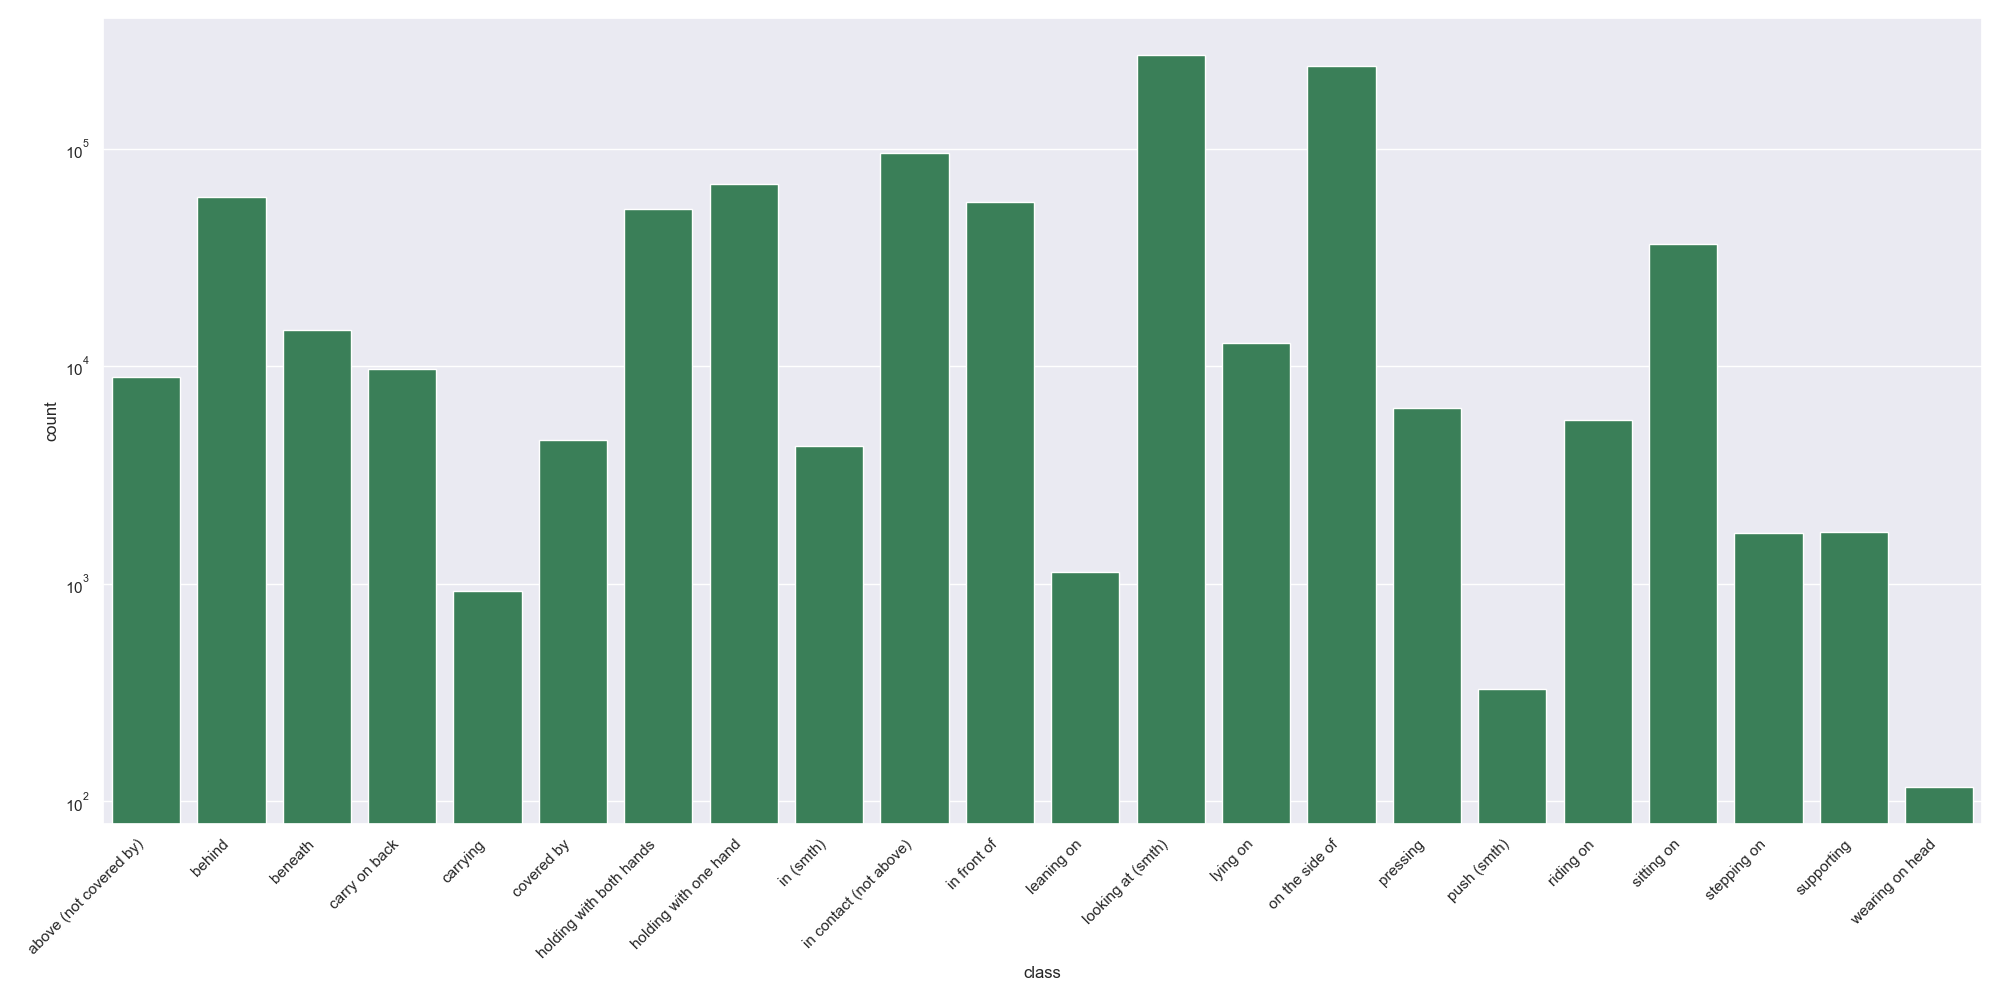
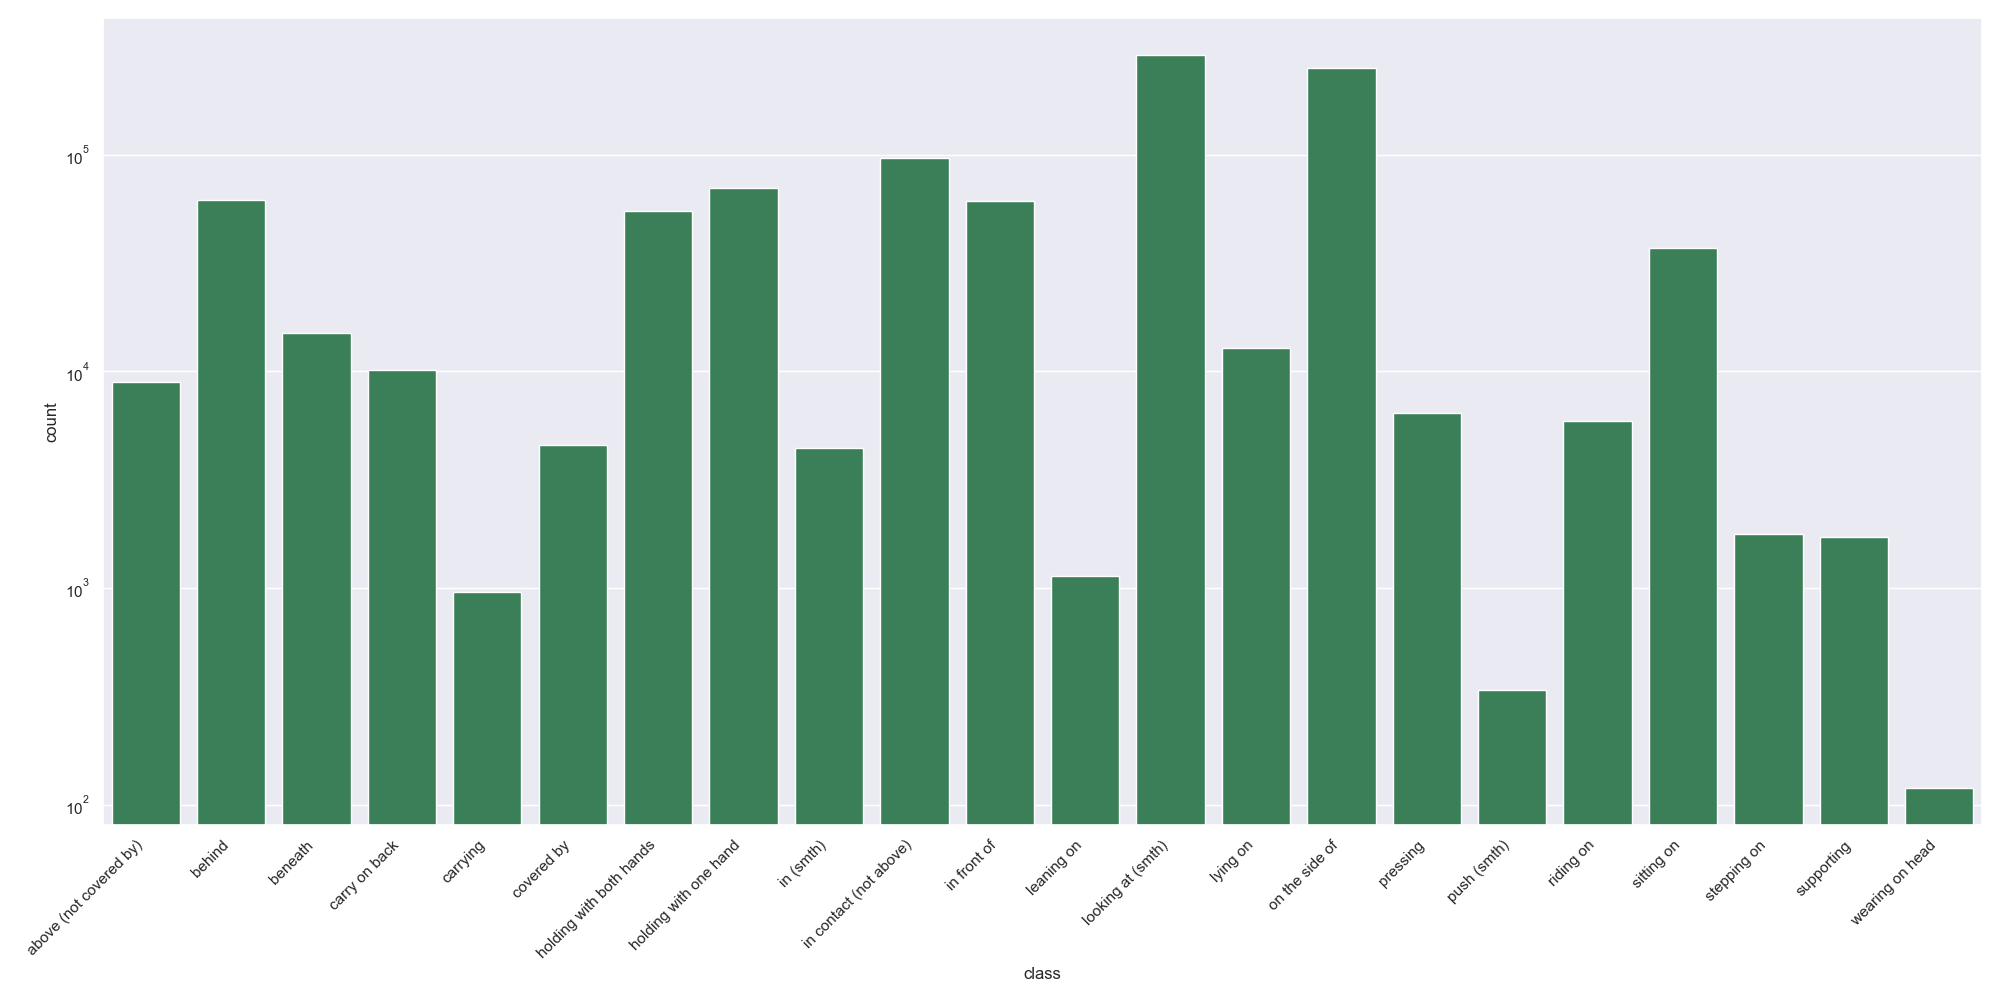
Updated 02/09 annotations

diff --git a/moma_preproc/ann_phase2.py b/moma_preproc/ann_phase2.py
@@ -133,8 +133,6 @@ class AnnPhase2:
     return timestamp
 
   def __inspect_ann_sact(self, ann_sact_raw):
-    errors = []
-
     # get id_sact, ids_hoi, and num_hois
     record = ann_sact_raw[0]['task']['task_params']['record']
     id_sact_real = record['attachment'].split('_')[-1][:-4].split('/')[0]
@@ -191,27 +189,11 @@ class AnnPhase2:
 
     for anns_instance_actor in anns_instances_actor:
       cnames = [ann_instance_actor.cname for ann_instance_actor in anns_instance_actor]
-      if len(set(cnames)) != 1:
-        # errors.append(f'[actor instance] id {anns_instance_actor[0].id} '
-        #               f'corresponds to more than one cname {set(cnames)}')
-        # fixme: Chinese
-        cnames = [self.en2cn[cname] for cname in cnames]
-        errors.append(f'人物;{list(set(cnames))};-;'
-                      f'本视频中{list(set(cnames))}两种不同人物类型用了相同的描述[{anns_instance_actor[0].id}]')
-        pass
+      assert len(set(cnames)) == 1
 
     for anns_instance_object in anns_instances_object:
       cnames = [ann_instance_object.cname for ann_instance_object in anns_instance_object]
-      if len(set(cnames)) != 1:
-        # errors.append(f'[object instance] id {anns_instance_object[0].id} '
-        #               f'corresponds to more than one cname {set(cnames)}')
-        # fixme: Chinese
-        cnames = [self.en2cn[cname] for cname in cnames]
-        errors.append(f'物体;{list(set(cnames))};-;'
-                      f'本视频中{list(set(cnames))}两种不同物体类型用了相同的描述[{anns_instance_object[0].id}]')
-        pass
-
-    return errors
+      assert len(set(cnames)) == 1
 
   def __inspect_ann_hoi(self, ann_hoi_raw):
     errors = []
@@ -240,12 +222,7 @@ class AnnPhase2:
             f'[{kind}] wrong id format {ann_entity.id}'.encode('unicode_escape').decode('utf-8')
 
         # check bbox
-        if ann_entity.bbox.width <= 0 or ann_entity.bbox.height <= 0:
-          # errors.append(f'[{kind}] wrong bbox size {ann_entity.bbox}')
-          # fixme: Chinese
-          errors.append(f'人物/物体词对象检测;{self.en2cn[ann_entity.cname]} {ann_entity.id}: '
-                        f'W={ann_entity.bbox.width}, H={ann_entity.bbox.height};-;对象检测标注面积为0')
-          pass
+        assert ann_entity.bbox.width > 0 and ann_entity.bbox.height > 0
 
         if ann_entity.bbox.x < 0 or \
            ann_entity.bbox.y < 0 or \
@@ -291,11 +268,7 @@ class AnnPhase2:
 
           ids_src = ann_description.ids_associated[1:-1].split('),(')[0].split(',')
           ids_trg = ann_description.ids_associated[1:-1].split('),(')[1].split(',')
-          if not are_entities(ids_src+ids_trg):
-            # errors.append(f'[{kind}] wrong ids_associated format {ids_src} -> {ids_trg}')
-            # fixme: Chinese
-            errors.append(f'关系词;{self.en2cn[ann_description.cname]};{ann_description.ids_associated};关系词描述格式错误')
-            pass
+          assert are_entities(ids_src+ids_trg)
 
           if not set(ids_src+ids_trg).issubset(ids):
             # errors.append(f'[{kind}] unseen ids_associated {set(ids_src+ids_trg)} in {ids}')
@@ -343,11 +316,9 @@ class AnnPhase2:
   def inspect(self, verbose=True):
     errors = []
     for id_sact, ann_sact_raw in self.anns_sact_raw.items():
-      errors_sact = self.__inspect_ann_sact(ann_sact_raw)
-      if verbose and len(errors_sact) > 0:
-        for error_sact in errors_sact:
-          print(f'{id_sact};;{error_sact}')
+      self.__inspect_ann_sact(ann_sact_raw)
 
+      errors_sact = []
       for ann_hoi_raw in ann_sact_raw:
         id_hoi = self.get_id_hoi(ann_hoi_raw)
         errors_hoi = self.__inspect_ann_hoi(ann_hoi_raw)

diff --git a/preproc.py b/preproc.py
@@ -43,7 +43,7 @@ def generate_splits(dir_moma):
 def main():
   dir_moma = '/home/alan/ssd/moma'
   fname_ann_phase1 = 'video_anns_phase1_processed.json'
-  fname_ann_phase2 = 'MOMA-videos-0131-all.jsonl'
+  fname_ann_phase2 = 'MOMA-videos-0209-all.jsonl'
 
   proc_anns(dir_moma, fname_ann_phase1, fname_ann_phase2)
   proc_videos(dir_moma)

diff --git a/README.md b/README.md
@@ -4,7 +4,7 @@ MOMA is a dataset dedicated to multi-object, multi-actor activity recognition.
 
 ## Requirements
 
-- Python 3.9+
+- Python 3.9+.
 - ffmpeg: For data processing.
 - Torchvision 0.11.0+: For data loading and visualization.
 - [distinctipy](https://github.com/alan-turing-institute/distinctipy): For data visualization. Install by running `pip install distinctipy`.
@@ -53,14 +53,14 @@ $ tree dir_moma
 ## Annotations
 In this version, we include:
 - 1,412 **activity** instances from [20 activity classes](https://raw.githubusercontent.com/d1ngn1gefe1/momatools/main/figures/activity.png?token=GHSAT0AAAAAABQHYNY25PBBGA4AIBT52DAAYPUG5AQ).
-- 15,616 **sub-activity** instances from [97 sub-activity classes](https://raw.githubusercontent.com/d1ngn1gefe1/momatools/main/figures/sub_activity.png?token=GHSAT0AAAAAABQHYNY2CEGAIBK5KOSZLLPWYPUG6EQ).
-- 158,530 **higher-order interaction** instances.
-- 599,843 image **actor** instances and 98,325 video **actor** instances from [27 classes](https://raw.githubusercontent.com/d1ngn1gefe1/momatools/main/figures/actor.png?token=GHSAT0AAAAAABQHYNY3YODQHWF6ZEIKXHVGYPUG6WQ).
-- 338,990 image **object** instances and 46,034 video **object** instances from [269 classes](https://raw.githubusercontent.com/d1ngn1gefe1/momatools/main/figures/object.png?token=GHSAT0AAAAAABQHYNY2S2BOY2KXIIHDBSPIYPUG6YA).
-- 951,543 **relationship** instances from [22 classes](https://raw.githubusercontent.com/d1ngn1gefe1/momatools/main/figures/relationship.png?token=GHSAT0AAAAAABQHYNY3YR77CAOVI5JQBNZCYPUG7MA).
-- 251,779 **attribute** instances from [4 classes](https://raw.githubusercontent.com/d1ngn1gefe1/momatools/main/figures/attribute.png?token=GHSAT0AAAAAABQHYNY2KBQJLZ5BPJH7EKIKYPUG7PQ).
-- 38,666 **transitive action** instances from [39 classes](https://raw.githubusercontent.com/d1ngn1gefe1/momatools/main/figures/transitive_action.png?token=GHSAT0AAAAAABQHYNY3VTPGYBKO52XBPEUUYPUG7WQ).
-- 412,914 **intransitive action** instances from [11 classes](https://raw.githubusercontent.com/d1ngn1gefe1/momatools/main/figures/intransitive_action.png?token=GHSAT0AAAAAABQHYNY2O4HYZFXUG3S7M5UMYPUG7XA).
+- 15,842 **sub-activity** instances from [97 sub-activity classes](https://raw.githubusercontent.com/d1ngn1gefe1/momatools/main/figures/sub_activity.png?token=GHSAT0AAAAAABQHYNY2CEGAIBK5KOSZLLPWYPUG6EQ).
+- 161,265 **higher-order interaction** instances.
+- 636,194 image **actor** instances and 104,564 video **actor** instances from [27 classes](https://raw.githubusercontent.com/d1ngn1gefe1/momatools/main/figures/actor.png?token=GHSAT0AAAAAABQHYNY3YODQHWF6ZEIKXHVGYPUG6WQ).
+- 349,244 image **object** instances and 47,523 video **object** instances from [269 classes](https://raw.githubusercontent.com/d1ngn1gefe1/momatools/main/figures/object.png?token=GHSAT0AAAAAABQHYNY2S2BOY2KXIIHDBSPIYPUG6YA).
+- 997,572 **relationship** instances from [22 classes](https://raw.githubusercontent.com/d1ngn1gefe1/momatools/main/figures/relationship.png?token=GHSAT0AAAAAABQHYNY3YR77CAOVI5JQBNZCYPUG7MA).
+- 261,249 **attribute** instances from [4 classes](https://raw.githubusercontent.com/d1ngn1gefe1/momatools/main/figures/attribute.png?token=GHSAT0AAAAAABQHYNY2KBQJLZ5BPJH7EKIKYPUG7PQ).
+- 39,747 **transitive action** instances from [39 classes](https://raw.githubusercontent.com/d1ngn1gefe1/momatools/main/figures/transitive_action.png?token=GHSAT0AAAAAABQHYNY3VTPGYBKO52XBPEUUYPUG7WQ).
+- 442,981 **intransitive action** instances from [11 classes](https://raw.githubusercontent.com/d1ngn1gefe1/momatools/main/figures/intransitive_action.png?token=GHSAT0AAAAAABQHYNY2O4HYZFXUG3S7M5UMYPUG7XA).
 
 Below, we show the syntax of the MOMA annotations.
 ```json5
